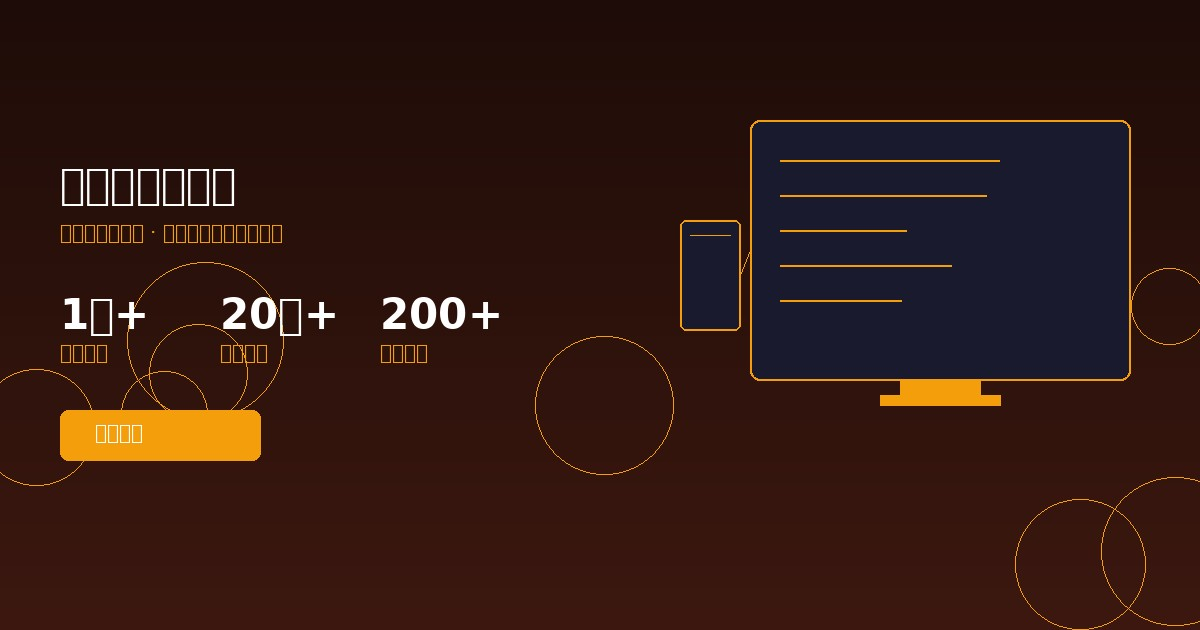
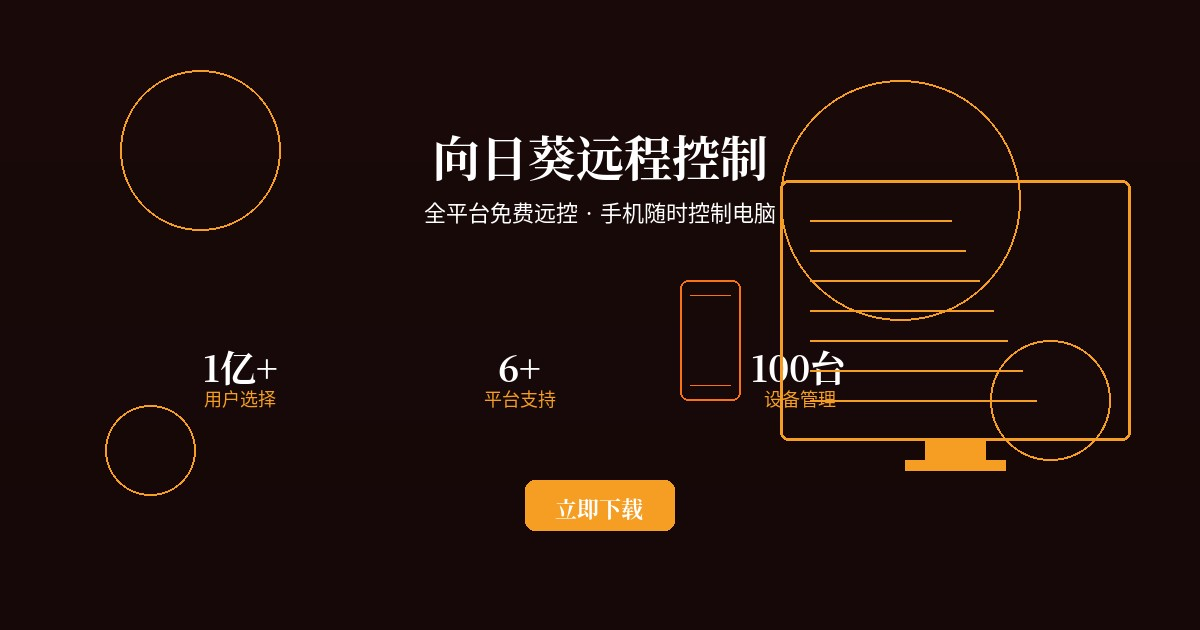
修复: hero图重做(中文字体修复)+场景图去Unsplash

diff --git a/index.html b/index.html
@@ -352,28 +352,28 @@ img { aspect-ratio: 3/2; width: 100%; height: auto; object-fit: cover; border-ra
     <p class="section-desc">无论在家、出门、出差还是娱乐，向日葵让你随时随地掌控一切。</p>
     <div class="scenarios-grid">
       <div class="scenario-card">
-        <img class="card-img" src="https://images.unsplash.com/photo-1576091160550-2173dba999ef?w=600&h=400&fit=crop" alt="家庭远程协助 - 远程帮助父母解决电脑问题">
+        <div class="scene-img" style="background:linear-gradient(135deg,#2d1515,#5c2a0e)" role="img" aria-label="家庭远程协助">👩👧</div>
         <div class="card-body">
           <h3>🏠 家庭远程协助</h3>
           <p>帮父母解决电脑问题，远程指导操作，不再为距离烦恼。一键连接，轻松搞定系统设置、软件安装等日常难题。</p>
         </div>
       </div>
       <div class="scenario-card">
-        <img class="card-img" src="https://images.unsplash.com/photo-1522071820081-009f0129c71c?w=600&h=400&fit=crop" alt="移动办公操控 - 随时随地远程办公">
+        <div class="scene-img" style="background:linear-gradient(135deg,#3d1815,#6b3020)" role="img" aria-label="移动办公操控">💼</div>
         <div class="card-body">
           <h3>💻 移动办公操控</h3>
           <p>出差在外也能操控办公室电脑，调取文件、处理工作，手机即是办公利器。支持远程CMD/SSH，运维也轻松。</p>
         </div>
       </div>
       <div class="scenario-card">
-        <img class="card-img" src="https://images.unsplash.com/photo-1612287230202-1ff1d85d1bdf?w=600&h=400&fit=crop" alt="远程游戏娱乐 - 手机玩电脑游戏">
+        <div class="scene-img" style="background:linear-gradient(135deg,#2a1015,#5a2030)" role="img" aria-label="远程游戏娱乐">🎮</div>
         <div class="card-body">
           <h3>🎮 远程游戏娱乐</h3>
           <p>用手机或平板远程畅玩电脑游戏，4K超清144帧低延迟，随时随地享受游戏乐趣。躺在床上也能打排位。</p>
         </div>
       </div>
       <div class="scenario-card">
-        <img class="card-img" src="https://images.unsplash.com/photo-1581091226825-a6a2a285f67c?w=600&h=400&fit=crop" alt="跨设备文件管理 - 远程传输文件">
+        <div class="scene-img" style="background:linear-gradient(135deg,#1a0a0a,#4a2010)" role="img" aria-label="跨设备文件管理">📁</div>
         <div class="card-body">
           <h3>📁 跨设备文件管理</h3>
           <p>手机与电脑间双向传输文件，告别数据线。远程访问电脑硬盘，随时调取资料，大文件高速传输无压力。</p>